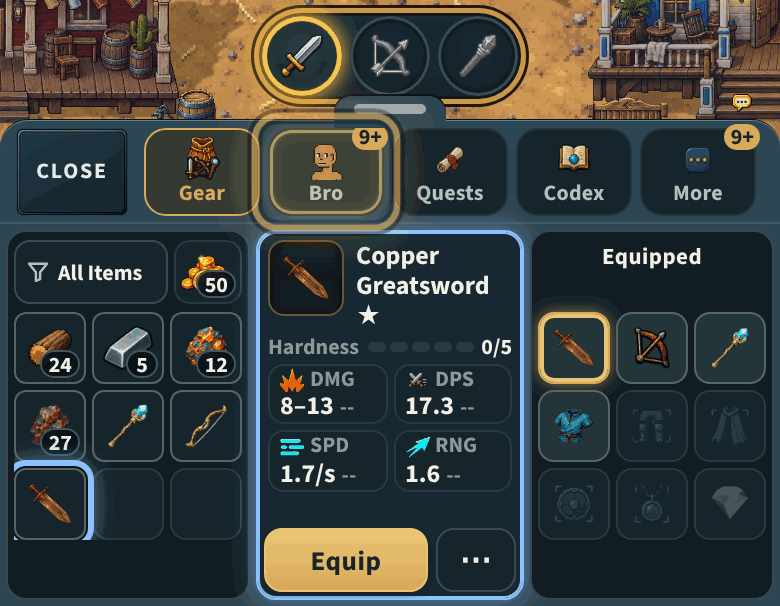
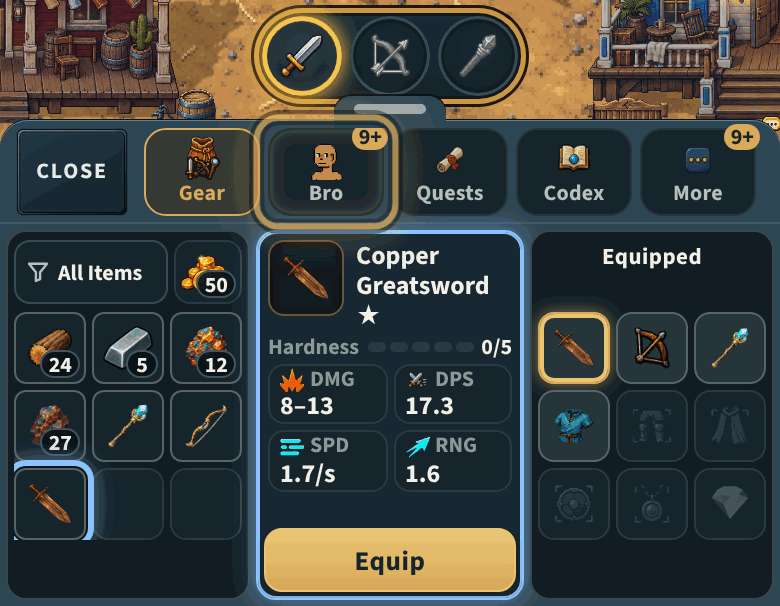
v2.3.4191: the owner's last three -- no "⋯" on a piece you can wear (its gold Equip alone), no "--" (nothing when equal), armour's pill says ARMOR
Claude-Session: https://claude.ai/code/session_01LccHakp6mNhVxMXVK6DB1e

diff --git a/src/ui/mobile/dash/GearTab.jsx b/src/ui/mobile/dash/GearTab.jsx
@@ -241,9 +241,9 @@ const PILL_ICON = {
   Damage: '/icons/ui/stat/dmg.png?v=2.3.2642', DPS: HERO_PILL_ICON.dps, Speed: HERO_PILL_ICON.aspd, Range: HERO_PILL_ICON.range,
   Block: HERO_PILL_ICON.def, Stamina: HERO_PILL_ICON.stam, Defence: HERO_PILL_ICON.def, 'Damage cut': HERO_PILL_ICON.armor,
 };
-const PILL_WORD = { Damage: 'DAMAGE', DPS: 'DPS', Speed: 'SPEED', Range: 'RANGE', Block: 'BLOCK', Stamina: 'ENERGY', Defence: 'DEFENCE', 'Damage cut': 'DMG CUT' };
+const PILL_WORD = { Damage: 'DAMAGE', DPS: 'DPS', Speed: 'SPEED', Range: 'RANGE', Block: 'BLOCK', Stamina: 'ENERGY', Defence: 'DEFENCE', 'Damage cut': 'ARMOR' };   /* v2.3.4191: the owner, of 'CUT': "ARMOR" (42% = you take 42% less damage) */
 /* a narrow pill (the 390 phone's ~58 px): three letters, the picture beside them says the rest */
-const PILL_SHORT = { Damage: 'DMG', DPS: 'DPS', Speed: 'SPD', Range: 'RNG', Block: 'BLK', Stamina: 'EN', Defence: 'DEF', 'Damage cut': 'CUT' };
+const PILL_SHORT = { Damage: 'DMG', DPS: 'DPS', Speed: 'SPD', Range: 'RNG', Block: 'BLK', Stamina: 'EN', Defence: 'DEF', 'Damage cut': 'ARMOR' };
 const STAR_COUNT = { normal: 1, rare: 2, elite: 3, godly: 4 };
 const GEAR_MORE_ONLY = { drop: 1, lock: 1, inspect: 1 };   /* never the gold button: always behind "⋯" */
 const HARDNESS_MAX = 5;   /* weapon.hardness is an int 0-5 (hardening.js) */
@@ -278,13 +278,16 @@ const StatPills = ({ rows, cmp, w, line }) => {
   }
   return (
     <div data-gear-grid="" style={{ display: 'grid', gridTemplateColumns: '1fr 1fr', gap: 3 }}>
-      {rows.slice(0, 4).map((r) => {
+      {rows.slice(0, 4).map((r, i, all) => {
         const up = cmp && r.tone > 0, down = cmp && r.tone < 0;
-        const change = !cmp ? null : r.old == null || r.old === '—' ? null : (r.diff === '=' || !r.diff) ? '--' : (up ? '▲ ' : down ? '▼ ' : '') + r.diff;
+        /* v2.3.4191, the owner: no "--" -- equal, or nothing to compare, shows nothing under the value */
+        const change = !cmp ? null : r.old == null || r.old === '—' ? null : (r.diff === '=' || !r.diff) ? null : (up ? '▲ ' : down ? '▼ ' : '') + r.diff;
         return (
           <div key={r.k} {...(cmp ? { 'data-gear-cmp': r.k, 'data-tone': r.tone } : { 'data-gear-stat': r.key || r.k })}
             title={cmp && r.old != null ? `${r.k}: ${r.old} → ${r.now}` : r.k}
             style={{
+              /* v2.3.4191: a lone pill (armour's one ARMOR) spans the row, so its word is whole */
+              ...(all.length === 1 ? { gridColumn: '1 / -1' } : null),
               minWidth: 0, boxSizing: 'border-box', padding: '1px 5px', borderRadius: 8,
               background: COL.wellSoft, border: `1px solid ${COL.border}`,
               display: 'flex', flexDirection: 'column', gap: 0, lineHeight: 1.1, overflow: 'hidden',
@@ -816,6 +819,12 @@ export const GearTab = ({ R: Rin, desk }) => {
     morePress = press;
     /* the foot: the gold button and, beside it, "⋯" (alone when there is no
        main action) */
+    /* v2.3.4191, the owner: a piece you can wear (a weapon, a shield, armour)
+       has NO "⋯" -- its gold Equip alone, the full width; "⋯" stays on what
+       has more to do (materials, potions...) and on a "?" piece, whose Equip
+       sits behind it beside the gold Reveal */
+    const wearable = /^stash(Weapon|Shield|Armor|Legs|Gear)$/.test(selEntry.kind) && !hidden;
+    if (wearable) moreList = [];
     if (lead || moreList.length) footer = (<>{lead ? goldBtn(lead.id, lead.label, () => press(lead), lead.attrs) : <span style={{ flex: 1 }} />}{moreBtn(moreList.length > 0)}</>);
     const q = !hidden && o ? o.quality : null;
     body = (
